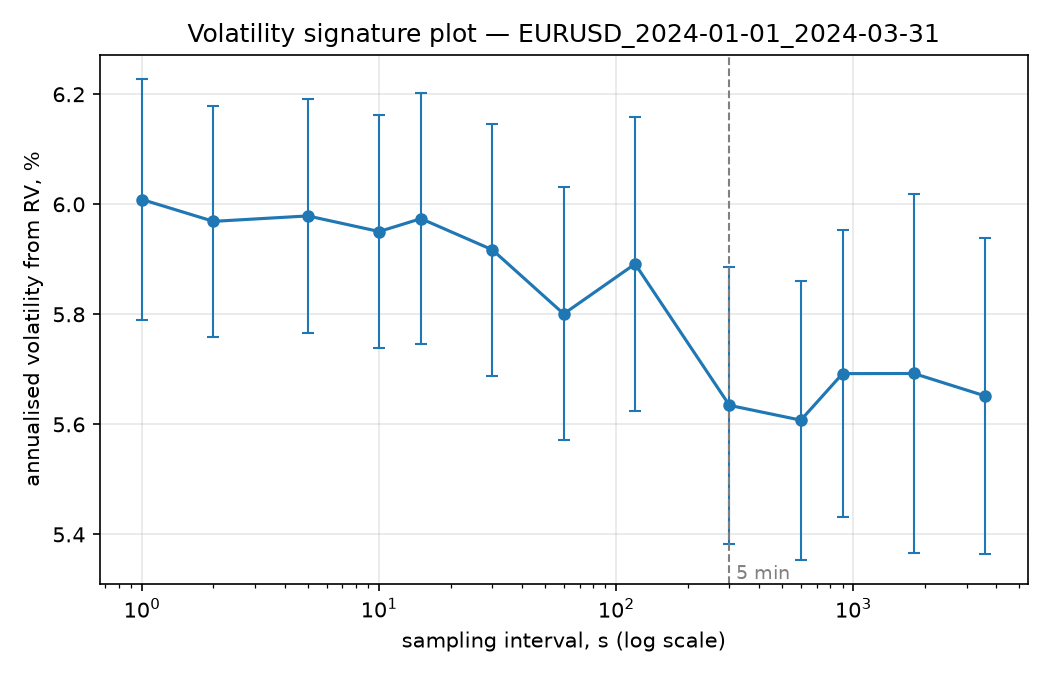
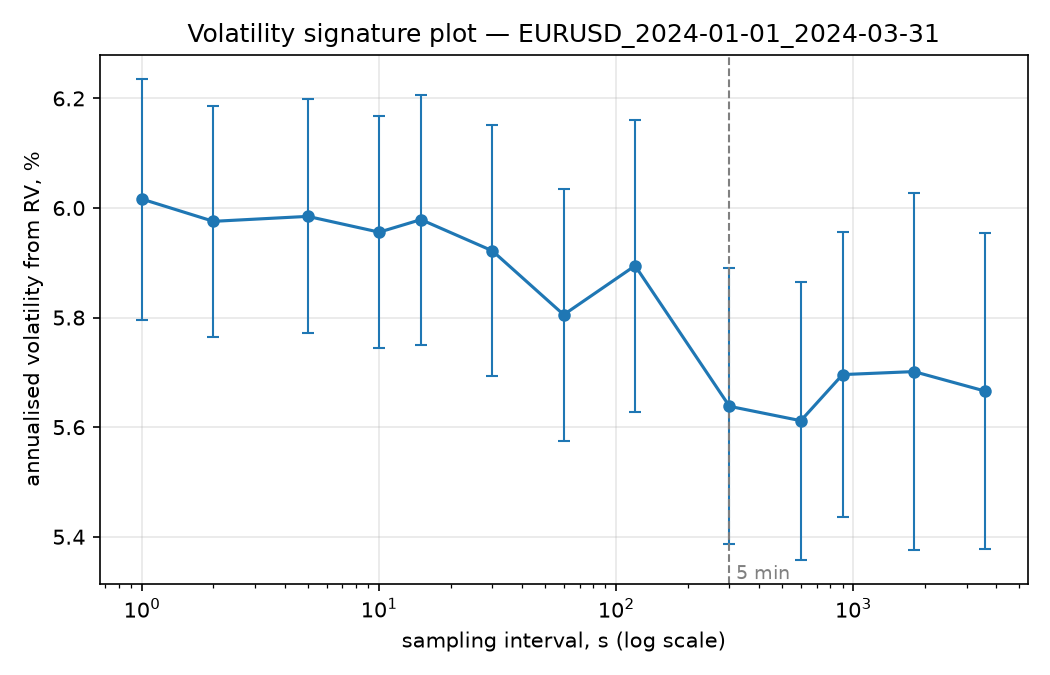
docs: update figures, restore corroboration section

diff --git a/README.md b/README.md
@@ -31,7 +31,8 @@ with error?
 
 Sample: EURUSD tick quotes from Dukascopy, 1 January to 31 March 2024 —
 5,359,908 ticks over 64 trading sessions, each running 21:00 to 21:00 UTC
-(17:00 New York). Median quoted spread 0.19 bps, no crossed quotes.
+(17:00 New York, daylight saving included). Median quoted spread 0.19 bps, no
+crossed quotes.
 
 Realized variance is computed per session at sampling intervals from 1 second
 to 1 hour, then averaged across sessions and annualised.
@@ -58,23 +59,23 @@ one-sided t-test on the log ratios — removes it (`rvol.estimators.signature.no
 
 | price | RV(1s)/RV(5min) | t | p | implied noise sd |
 |---|---|---|---|---|
-| mid | 1.0763 | 2.49 | 0.0077 | 0.029 bps |
-| bid | 1.1771 | 5.22 | 1.1e-06 | 0.049 bps |
-| ask | 1.1777 | 5.31 | 7.6e-07 | 0.048 bps |
+| mid | 1.0780 | 2.55 | 0.0066 | 0.030 bps |
+| bid | 1.1794 | 5.29 | 8.2e-07 | 0.049 bps |
+| ask | 1.1811 | 5.43 | 4.8e-07 | 0.048 bps |
 
 The noise standard deviation is backed out from E[RV_n] = IV + 2n*omega^2.
 
 Three things follow.
 
 **Mid-price noise is real but small.** Second-by-second sampling inflates
-variance by 7.6%, i.e. volatility by 3.7%. The unpaired figure could not
+variance by 7.8%, i.e. volatility by 3.8%. The unpaired figure could not
 resolve this; the effect was always there, buried under volatility swings.
 
 **Bid and ask agree to within 2%** — 0.049 against 0.048 bps — as they should,
 since neither side of the quote is special. A useful check on the pipeline.
 
 **The mid is cleaner than averaging alone explains.** Independent noise on each
-quote would give 0.049/sqrt(2) = 0.035 bps for the mid; the measured 0.029 bps
+quote would give 0.049/sqrt(2) = 0.035 bps for the mid; the measured 0.030 bps
 is lower, so the two are negatively correlated. The spread widens and narrows
 around the efficient price, and those moves cancel in the mid while showing up
 in each quote. Quote noise at 0.049 bps is also about half the 0.095 bps
